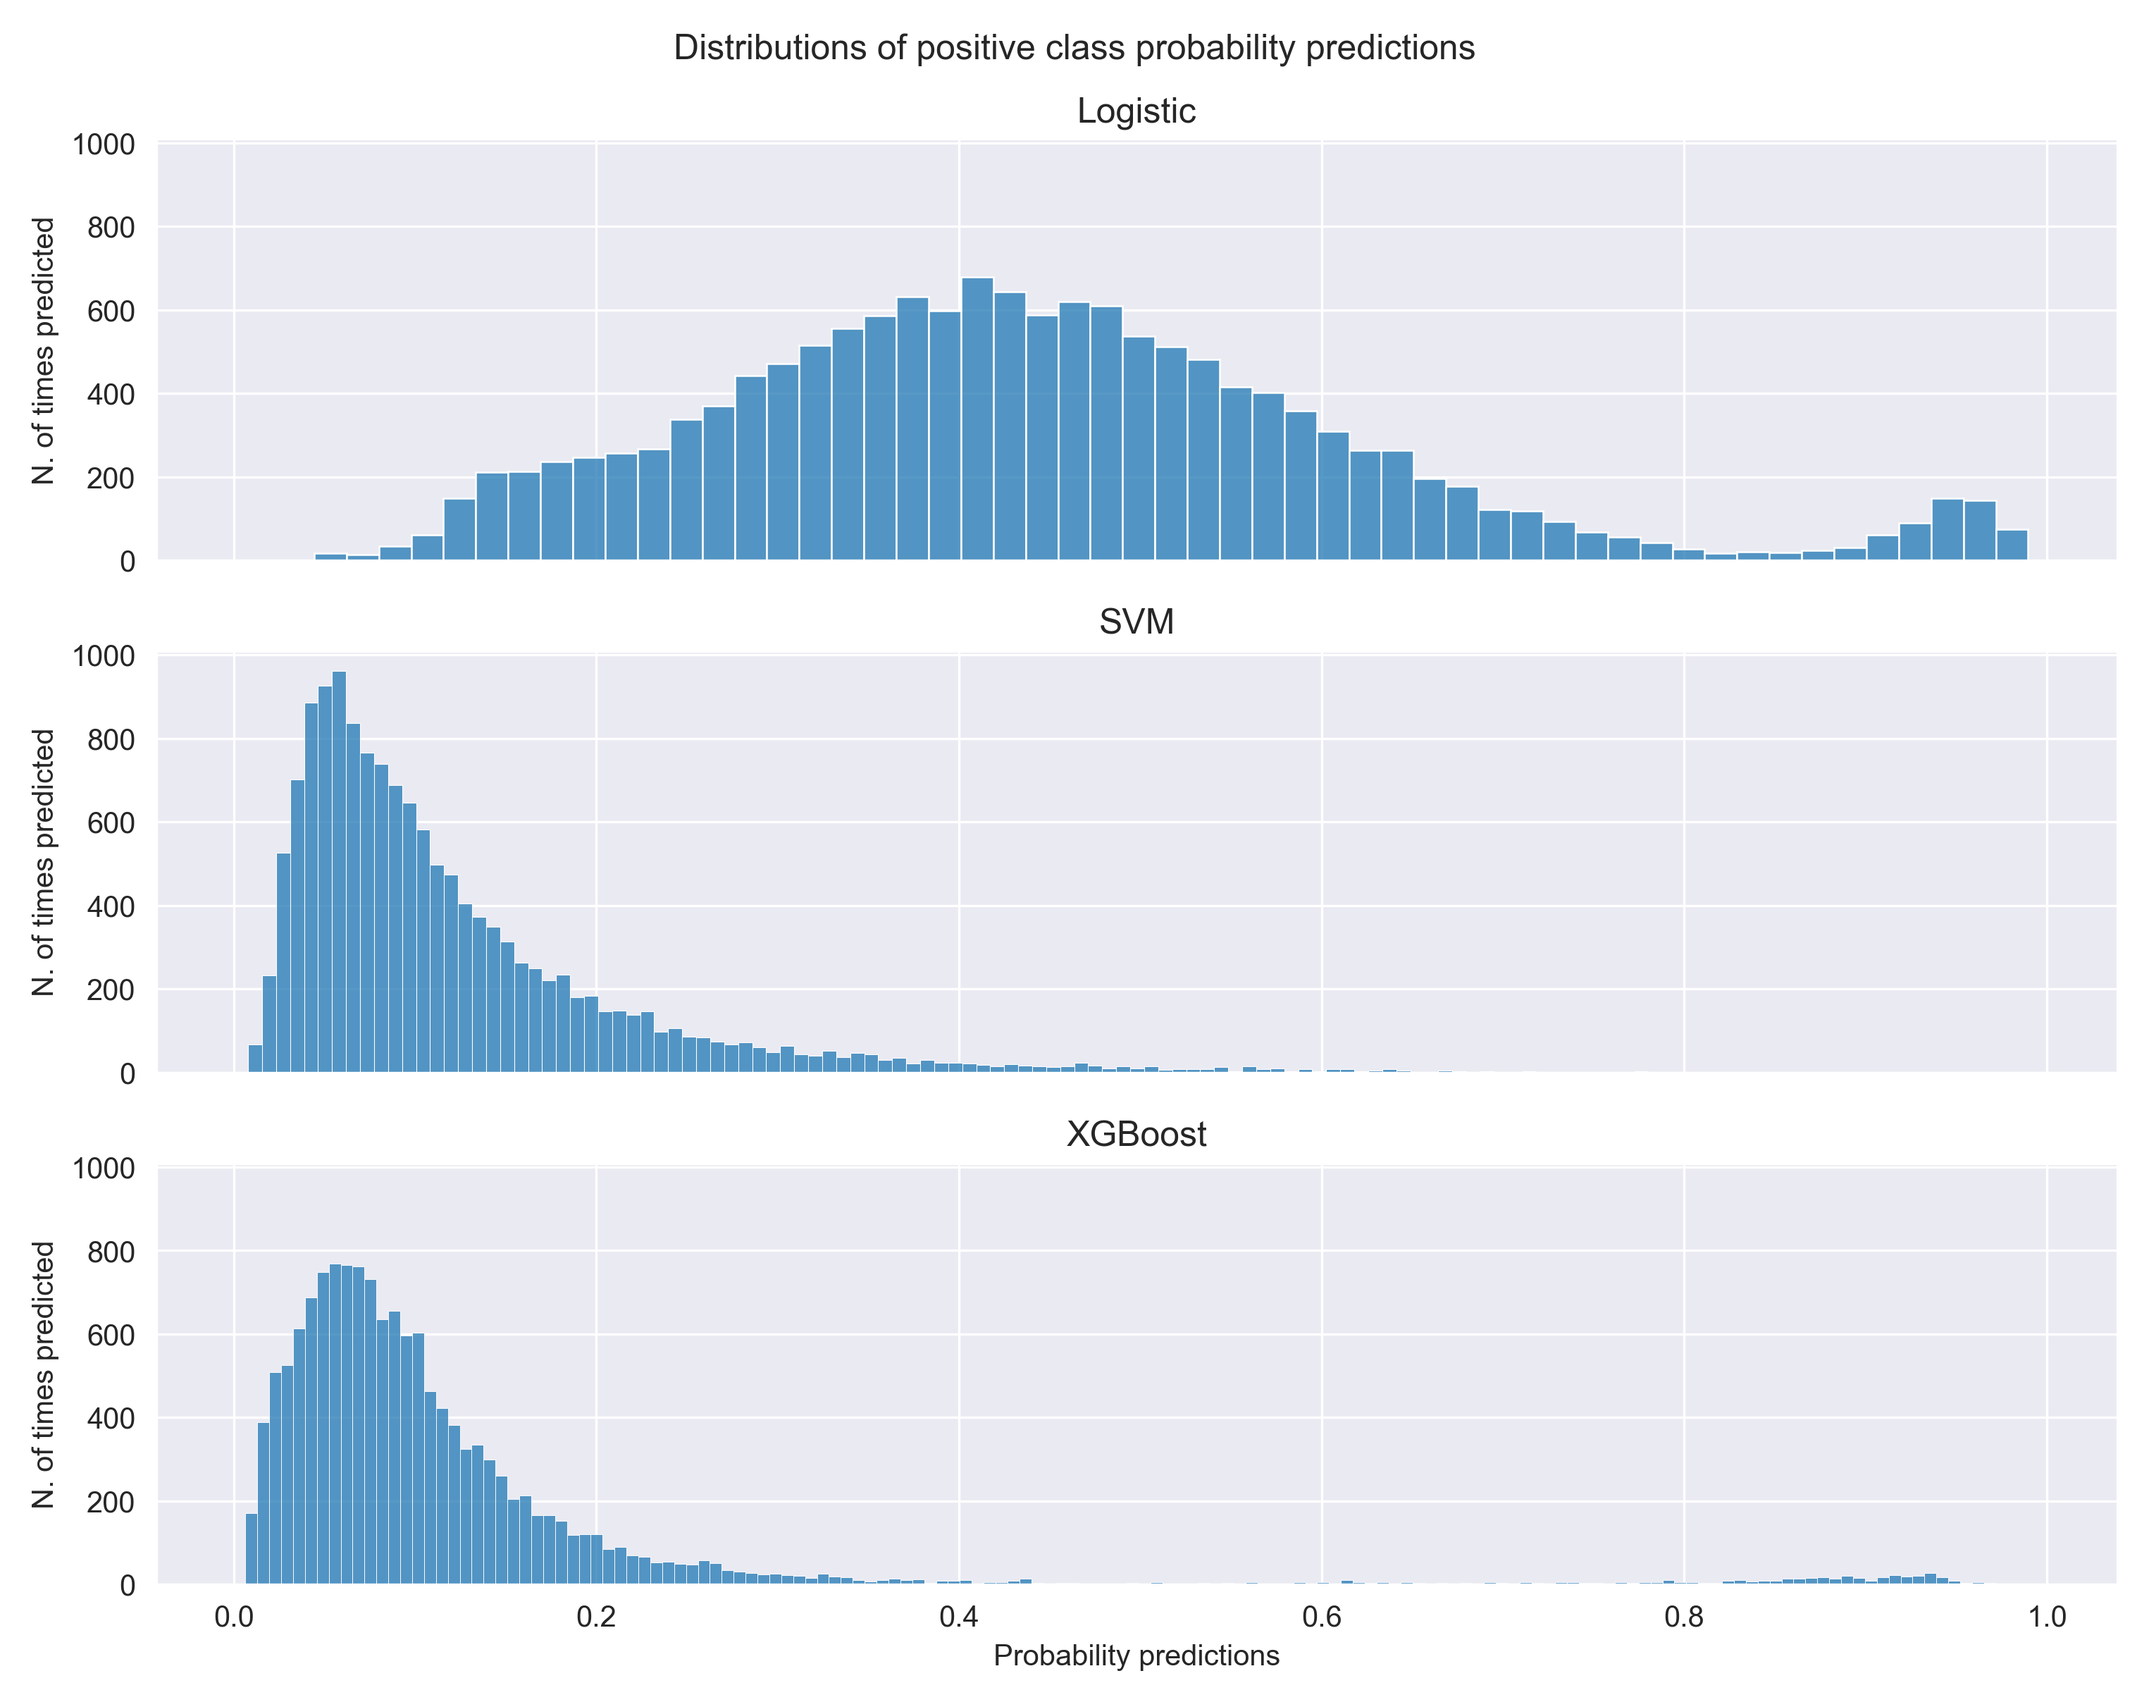
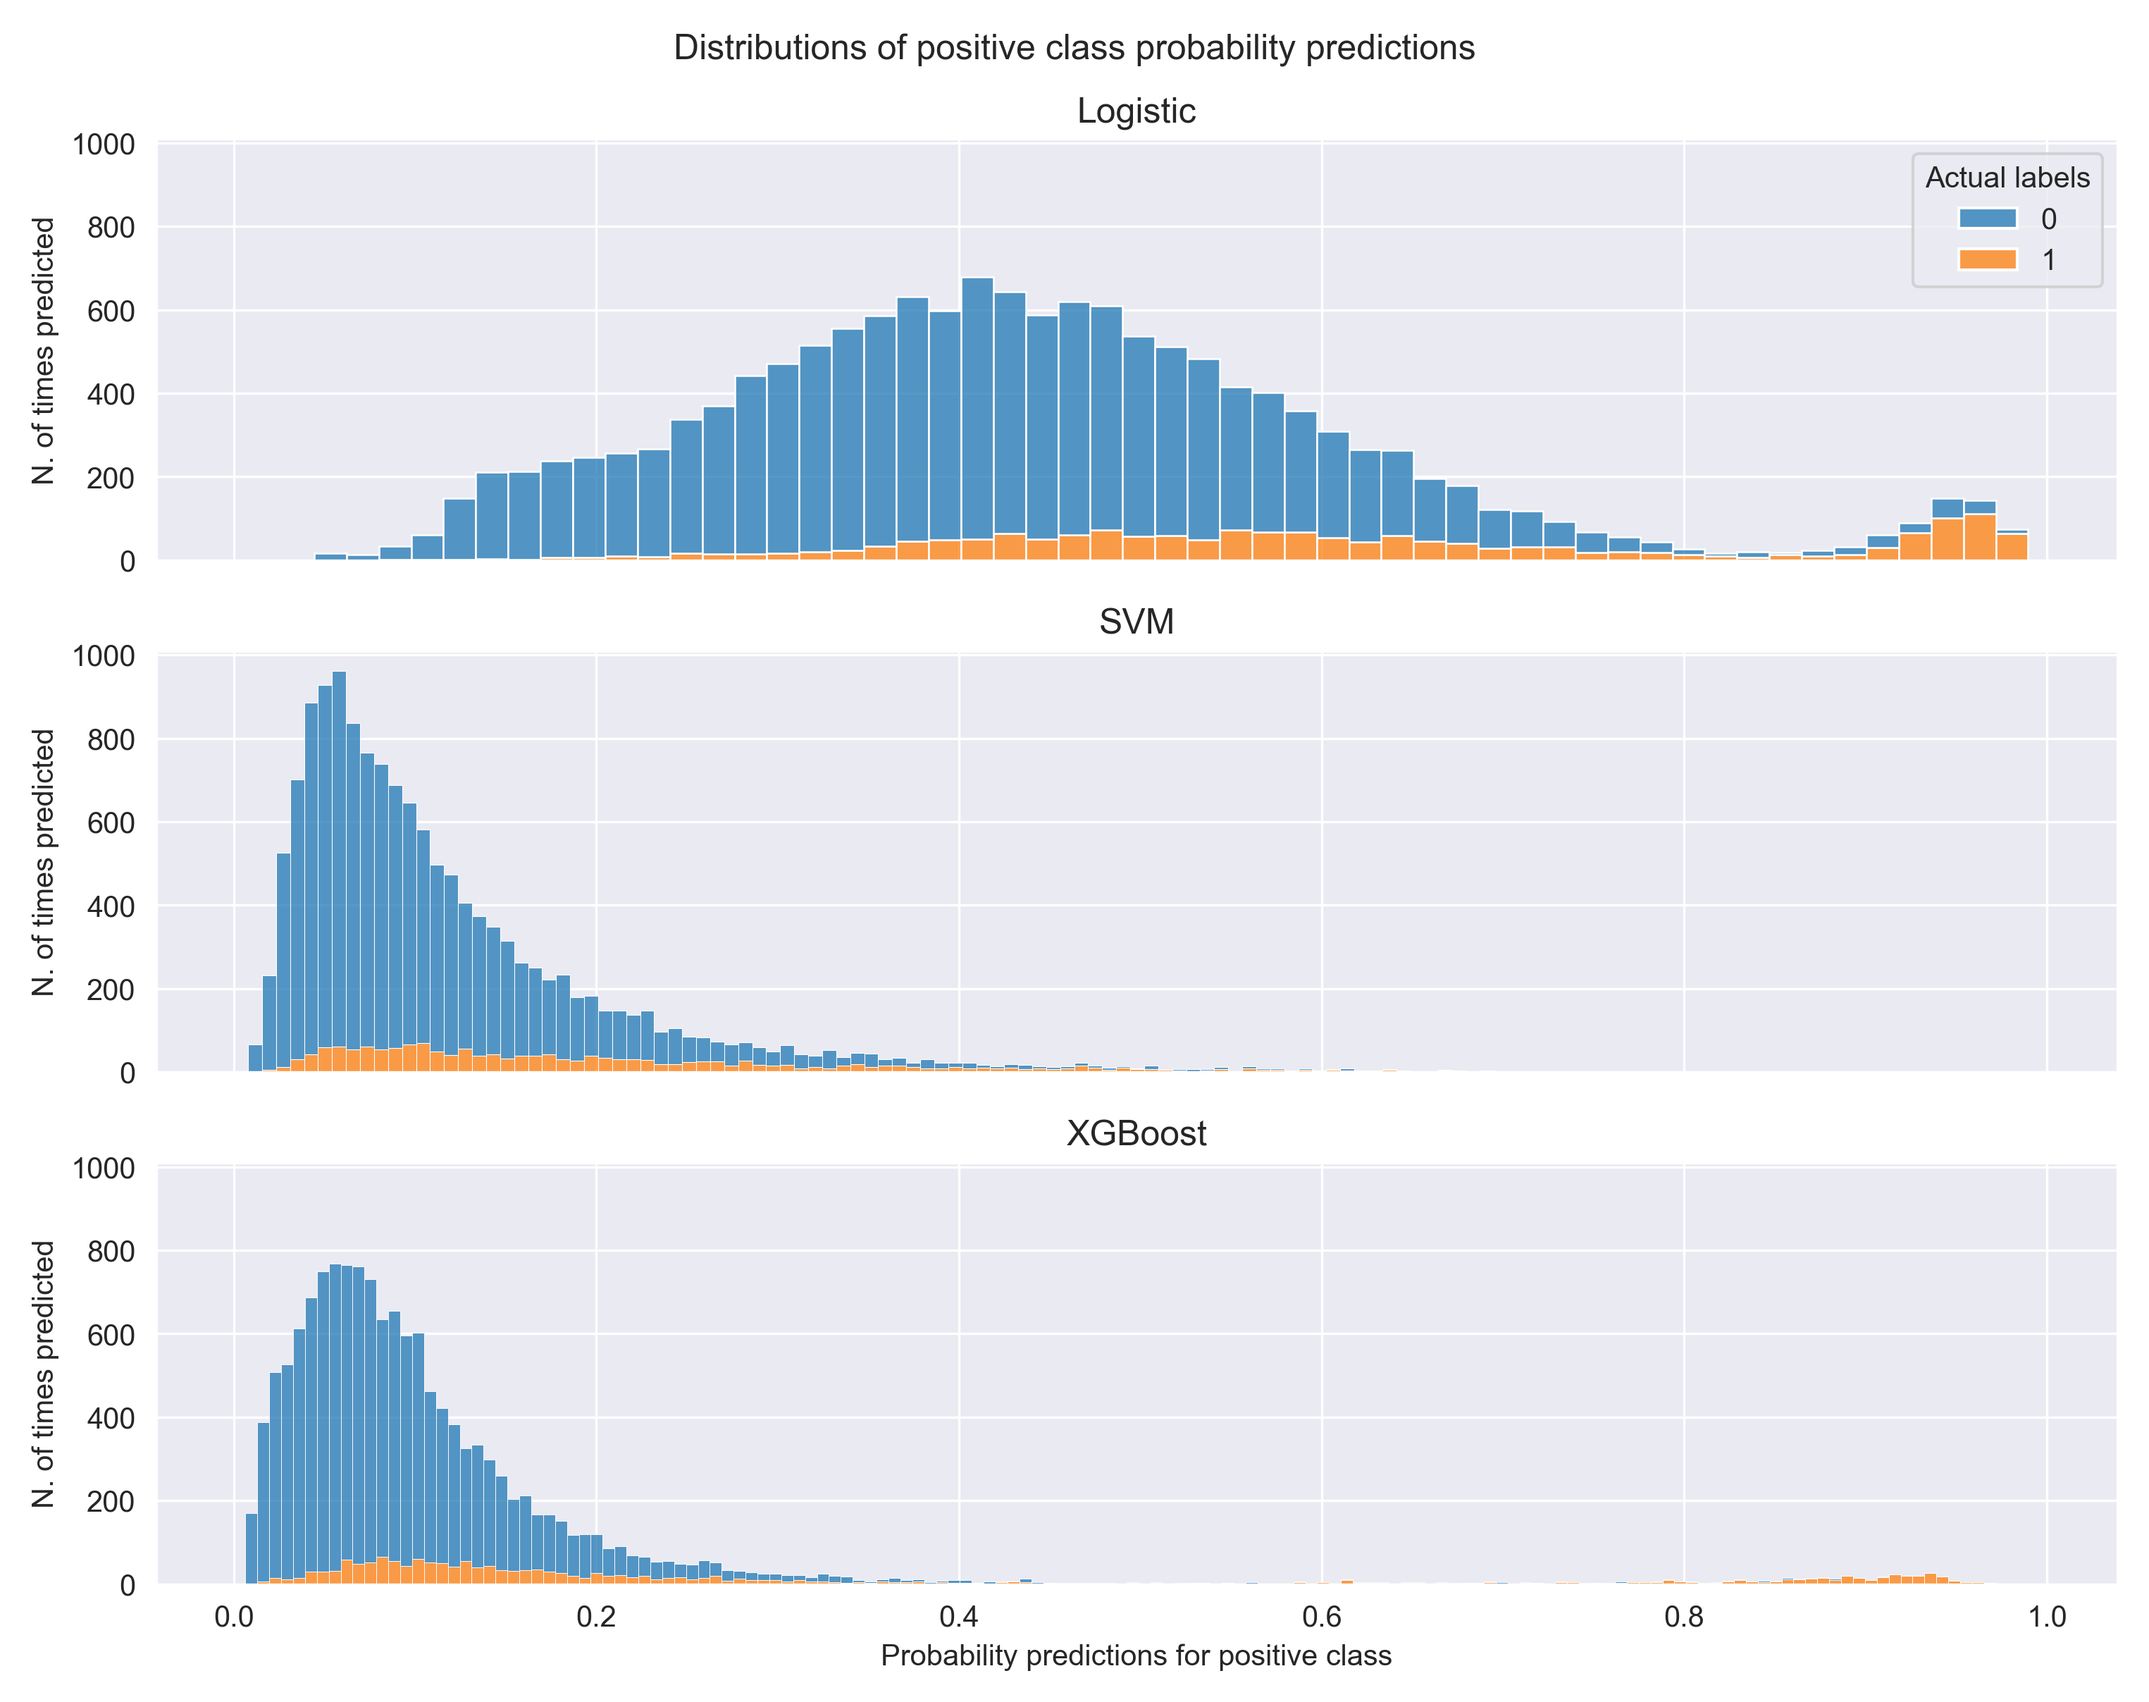
Add stacked histogram plot to model scoring

diff --git a/0X_UnusedCode.py b/0X_UnusedCode.py
@@ -1,4 +1,98 @@
 
+# Debug SGD partial fit
+
+# t_ does properly update after each epoch, and is reset with each validation fold.
+
+# After looking at the source code, it seems fit and partial_fit use the "optimal"
+# learning rate the same way, though it's hard to confirm. Both fit and partial_fit
+# calls _fit_regressor which calls _plain_sgd, which seems to work the same way, 
+# with only difference being max_iter = 1 for partial_fit.
+
+# _plain_sgd does adjust the optimal learning rate and shuffle the data for each iter,
+# regardless of number of iterations.
+cv_scores = []
+  
+for i, (train_index, val_index) in enumerate(cv_indices):
+  
+  # Split training-validation data
+  x_tr = x_train.iloc[train_index, ]
+  y_tr = y_train.iloc[train_index, ]
+  x_val = x_train.iloc[val_index, ]
+  y_val = y_train.iloc[val_index, ]
+    
+  # Compute class weight
+  classes = list(set(y_tr))
+  class_weight = compute_class_weight("balanced", classes = classes, y = y_tr)
+  sample_weight = np.where(y_tr == 1, class_weight[1], class_weight[0])
+  sample_weight_val = np.where(y_val == 1, class_weight[1], class_weight[0])
+    
+  # Define Logistic Regression classifier with SGD
+  model_logistic = SGDClassifier(
+    loss = "log_loss", # Log loss for probabilistic logistic regression
+    penalty = "elasticnet",
+    learning_rate = "optimal", # Dynamically adjusted based on regularization strength 
+    random_state = 1923,
+    verbose = 0, # Change to 1 to print epochs for debugging if needed
+    alpha = 0.005,
+    l1_ratio = 0.3
+    )
+    
+  # Perform preprocessing
+  x_tr = pipe_process.fit_transform(x_tr, y_tr)
+  x_val = pipe_process.transform(x_val)
+    
+  # Perform epoch by epoch training with early stopping & pruning
+  epoch_scores = []
+  n_iter_no_change = 0
+  tol = 0.001
+    
+  for epoch in range(1000):
+    
+    # Print epoch number, parameters that will be used, n. of weight updates performed
+    print("Starting epoch: " + str(epoch) + "\n")
+    
+    print("Parameters: " + str(model_logistic.get_params()) + "\n")
+    
+    if epoch > 0:
+      print("N. weight updates performed: " + str(model_logistic.t_) + "\n")
+      
+    # Train model for 1 epoch
+    _ = model_logistic.partial_fit(x_tr, y_tr, classes = classes, sample_weight = sample_weight)
+      
+    # Score epoch
+    y_pred = model_logistic.predict_proba(x_val)
+    epoch_score = log_loss(y_val, y_pred, sample_weight = sample_weight_val)
+      
+    # Count epochs with no improvement after first 10 epochs
+    if epoch > 9:
+      if (epoch_score > min(epoch_scores) - tol):
+        n_iter_no_change += 1
+      
+    # Append epoch score to list of epoch scores
+    epoch_scores.append(epoch_score)
+    
+    # Early stop training if necessary
+    if n_iter_no_change == 10:
+      print("Early stopping at epoch " + str(epoch))
+      break 
+     
+  # Append best epoch score to CV scores
+  cv_scores.append(min(epoch_scores))
+
+
+
+
+
+
+
+
+
+
+
+
+
+
+
 
 from category_encoders.datasets import load_compass, load_postcodes
 

diff --git a/06_ModelScoring.py b/06_ModelScoring.py
@@ -252,6 +252,27 @@ df_f1_xgb = pd.DataFrame(
   )
 
 
+# Get dataframes for stacked histogram plots
+
+# Logistic
+df_preds_logistic = pd.DataFrame({
+  "Prob. predictions": preds_prob["Logistic"],
+  "Actual labels": y_test,
+})
+
+# SVM
+df_preds_svm = pd.DataFrame({
+  "Prob. predictions": preds_prob["SVM"],
+  "Actual labels": y_test,
+})
+
+# XGBoost
+df_preds_xgb = pd.DataFrame({
+  "Prob. predictions": preds_prob["XGBoost"],
+  "Actual labels": y_test,
+})
+
+
 # Plot precision-recall curves
 fig, ax = plt.subplots()
 for key in preds_prob.keys():
@@ -300,26 +321,34 @@ _ = fig.suptitle("Distributions of positive class probability predictions")
 # Logistic
 _ = sns.histplot(
   ax = ax[0], 
-  x = "Logistic", 
-  data = preds_prob)
+  x = "Prob. predictions", 
+  hue = "Actual labels",
+  multiple = "stack",
+  data = df_preds_logistic)
 _ = ax[0].set_title("Logistic")
 _ = ax[0].set_ylabel("N. of times predicted")
 
 # SVM
 _ = sns.histplot(
   ax = ax[1], 
-  x = "SVM", 
-  data = preds_prob)
+  x = "Prob. predictions",
+  hue = "Actual labels",
+  multiple = "stack",
+  data = df_preds_svm,
+  legend = False)
 _ = ax[1].set_title("SVM")
 _ = ax[1].set_ylabel("N. of times predicted")
 
 # XGBoost
 _ = sns.histplot(
   ax = ax[2], 
-  x = "XGBoost", 
-  data = preds_prob)
+  x = "Prob. predictions",
+  hue = "Actual labels",
+  multiple = "stack",
+  data = df_preds_xgb,
+  legend = False)
 _ = ax[2].set_title("XGBoost")
-_ = ax[2].set_xlabel("Probability predictions")
+_ = ax[2].set_xlabel("Probability predictions for positive class")
 _ = ax[2].set_ylabel("N. of times predicted")
 
 plt.show()

diff --git a/05.1_ModelingLogistic.py b/05.1_ModelingLogistic.py
@@ -9,7 +9,7 @@ exec(open("04_Preprocessing.py").read())
 
 
 import optuna
-from sklearn.linear_model import LogisticRegression
+from sklearn.linear_model import SGDClassifier
 from sklearn.utils.class_weight import compute_class_weight
 from sklearn.metrics import log_loss
 
